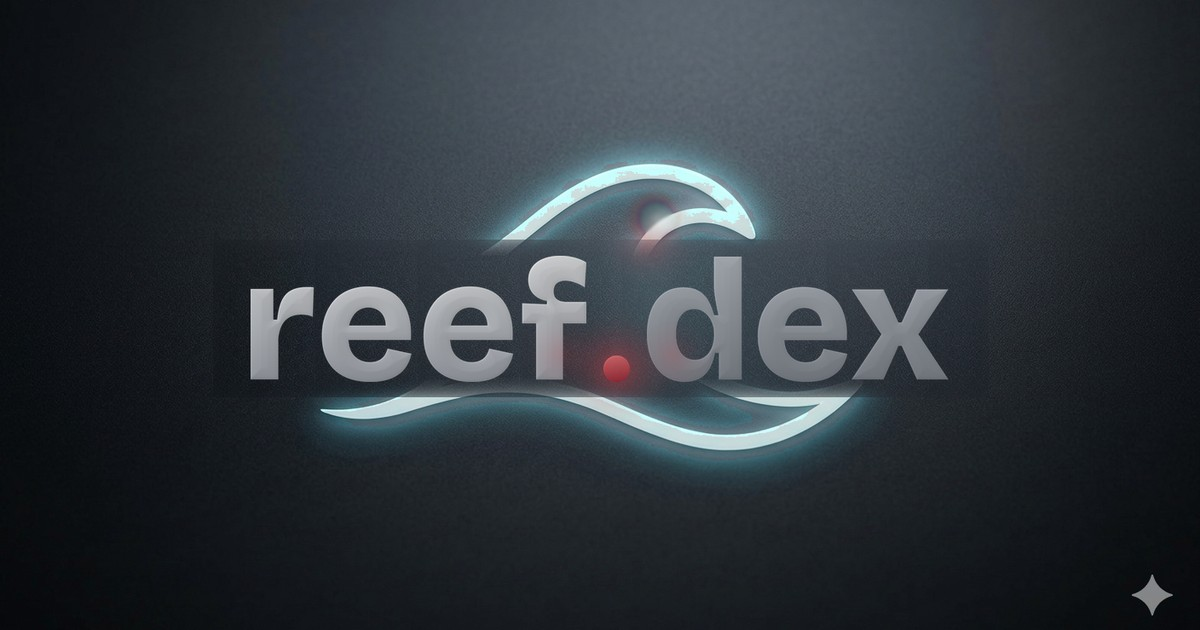
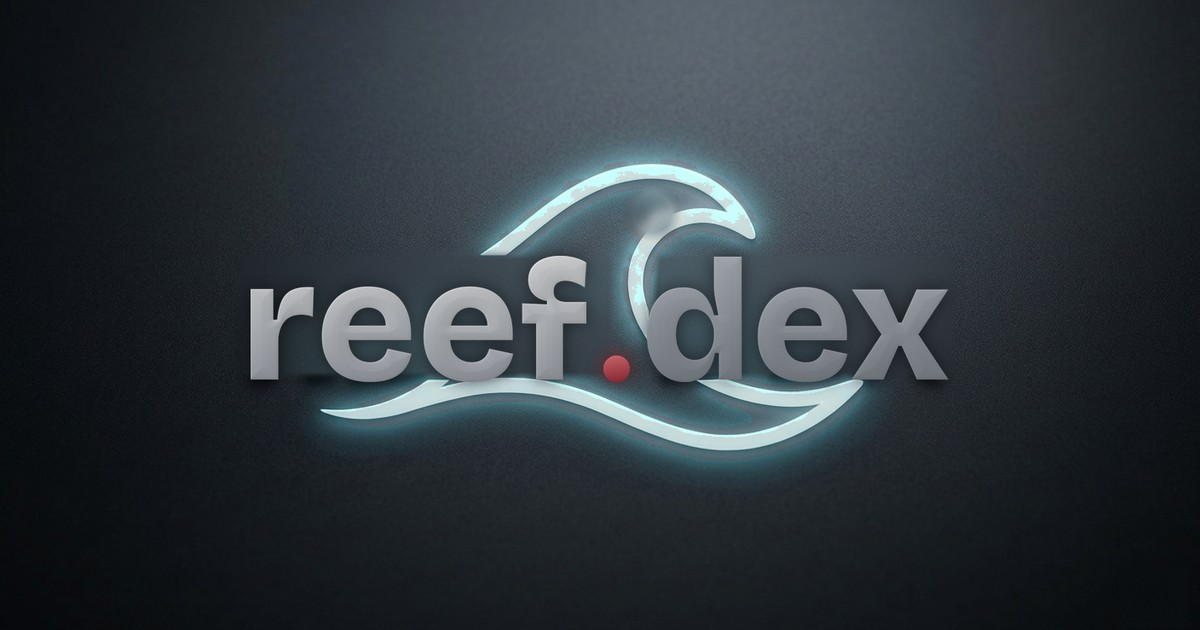
Rebuild link-preview image without the box behind the wordmark
The old og-image had a flat dark rectangle where the original "REEF DEX"
lettering had been removed, cutting through the wave. Rebuilt the
background from a fitted lighting model with matching grain, kept the
wave's curl, removed the leftover pink ring and the corner watermark.
Added ?v=2 to the og/twitter image URLs so link previews re-fetch it.

Claude-Session: https://claude.ai/code/session_019mgtuByyNXFfZStdL7cDuX

Changed region(s): [[0.3083, 0.3016, 0.74, 0.6333], [0.4008, 0.3619, 0.4625, 0.4222], [0.925, 0.9048, 0.9867, 0.9651]]

diff --git a/index.html b/index.html
@@ -18,13 +18,13 @@
 <meta property="og:title" content="reef.dex">
 <meta property="og:description" content="A permissionless AMM DEX on BlockDAG (chain 1404). Swap, provide liquidity, create pools. Open-source, no gatekeeping.">
 <meta property="og:url" content="https://reefdex.pages.dev/">
-<meta property="og:image" content="https://reefdex.pages.dev/assets/og-image.jpg">
+<meta property="og:image" content="https://reefdex.pages.dev/assets/og-image.jpg?v=2">
 <meta property="og:image:width" content="1200">
 <meta property="og:image:height" content="630">
 <meta name="twitter:card" content="summary_large_image">
 <meta name="twitter:title" content="reef.dex">
 <meta name="twitter:description" content="A permissionless AMM DEX on BlockDAG (chain 1404). Swap, provide liquidity, create pools.">
-<meta name="twitter:image" content="https://reefdex.pages.dev/assets/og-image.jpg">
+<meta name="twitter:image" content="https://reefdex.pages.dev/assets/og-image.jpg?v=2">
 
 <link rel="preconnect" href="https://fonts.googleapis.com"><link rel="preconnect" href="https://fonts.gstatic.com" crossorigin>
 <link href="https://fonts.googleapis.com/css2?family=Bricolage+Grotesque:opsz,wght@12..96,500;12..96,700;12..96,800&amp;family=Instrument+Sans:wght@400;500;600&amp;display=swap" rel="stylesheet">
